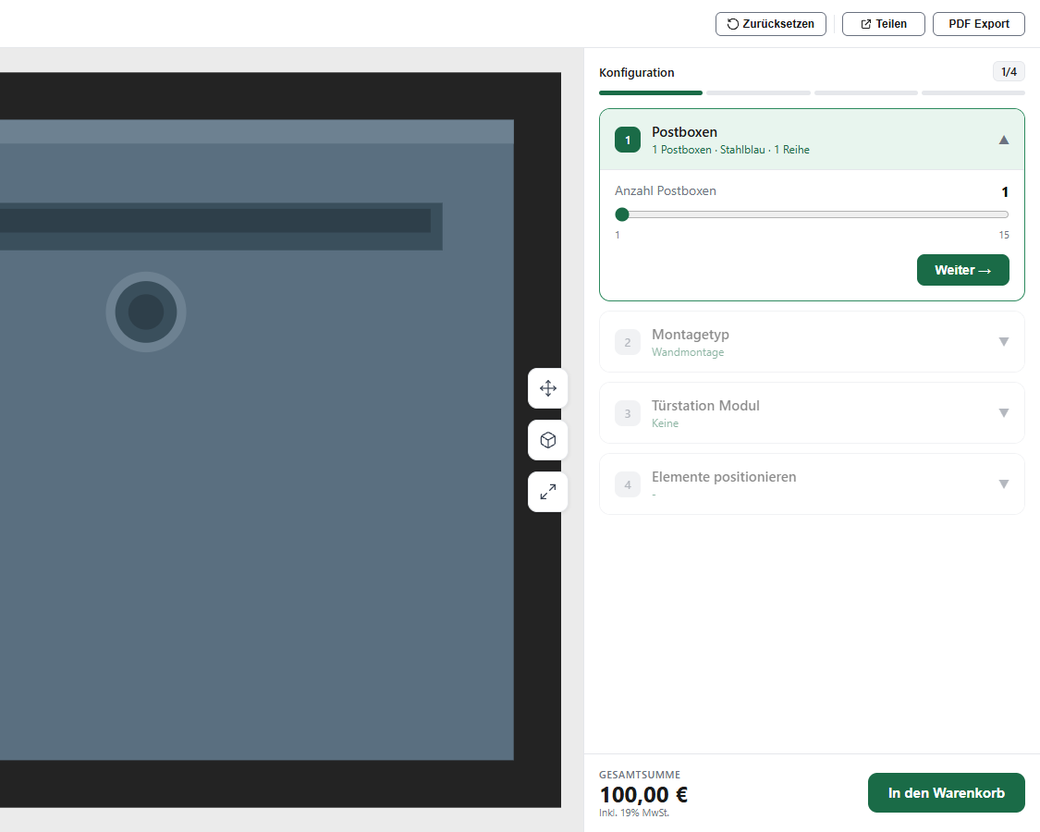
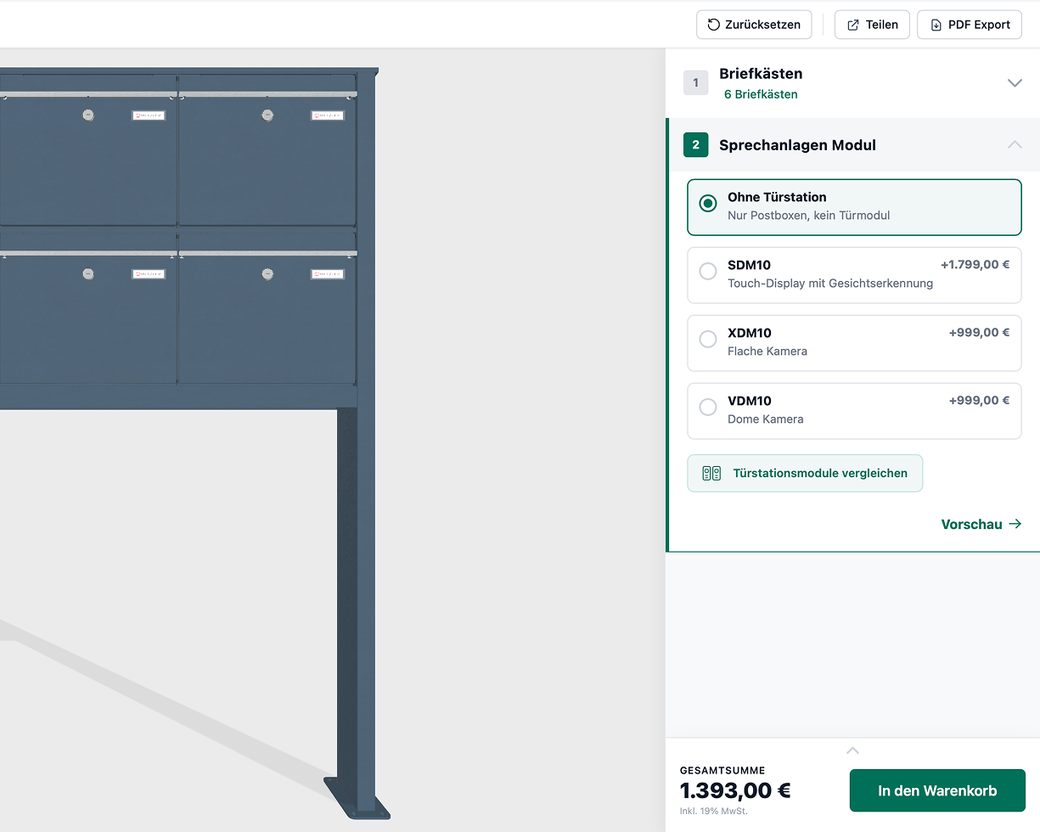
Add production-process case study, uniform screenshots, polish
- Add 6th case study (production process) with live link + real screenshot
- Re-render homepage/about-us/produktionsprozess at uniform 1440px width
- Swap konfigurator image (full panel, edge-to-edge)
- Fix About Us tag IA -> AI; About Us reframed around visitor groups
- Homepage & PLP case-study copy updates (FAQ, awards, advantages)
- en dashes throughout; nav/spacing/mobile refinements

diff --git a/index.html b/index.html
@@ -323,7 +323,7 @@
           <div class="case__tags">
             <span data-en="Content design" data-de="Content-Design">Content design</span>
             <span data-en="Trust" data-de="Vertrauen">Trust</span>
-            <span>IA</span>
+            <span>AI</span>
           </div>
           <h3 class="case__title"
               data-en="Turning a flat ‘About’ page into a trust-building hub"
@@ -443,6 +443,76 @@
               <li data-en="A configurator that turns a potentially overwhelming purchase into a guided, confident decision." data-de="Ein Konfigurator, der einen potenziell überfordernden Kauf in eine geführte, sichere Entscheidung verwandelt.">A configurator that turns a potentially overwhelming purchase into a guided, confident decision.</li>
               <li data-en="Customers keep an overview and a sense of control throughout the process." data-de="Kunden behalten durchgehend Überblick und Kontrolle über den Prozess.">Customers keep an overview and a sense of control throughout the process.</li>
               <li data-en="A validated, well-documented flow ready for development." data-de="Ein validierter, gut dokumentierter Flow, bereit für die Entwicklung.">A validated, well-documented flow ready for development.</li>
+            </ul>
+          </div>
+        </div>
+      </div></div>
+    </div>
+
+    <!-- ===== Case 6: Production process ===== -->
+    <div class="reveal case-wrap" style="transition-delay:.08s">
+      <article class="case case--feature tilt">
+        <div class="case__media">
+          <img src="assets/produktionsprozess.png" alt="Metzler production-process landing page" />
+        </div>
+        <div class="case__body">
+          <div class="case__tags">
+            <span data-en="Content design" data-de="Content-Design">Content design</span>
+            <span data-en="Storytelling" data-de="Storytelling">Storytelling</span>
+            <span data-en="Motion" data-de="Motion">Motion</span>
+          </div>
+          <h3 class="case__title"
+              data-en="Turning ‘how it’s made’ into a reason to buy"
+              data-de="Aus dem Herstellungsprozess ein Kaufargument machen">
+            Turning ‘how it’s made’ into a reason to buy
+          </h3>
+          <p class="case__client">Metzler GmbH</p>
+          <p class="case__summary"
+             data-en="A scrollytelling production-process landing page that serves two audiences at once – anxious buyers arriving from transactional emails and curious visitors from the About Us page – reframing a made-to-order wait as a mark of quality."
+             data-de="Eine Scrollytelling-Landingpage zum Produktionsprozess, die zwei Zielgruppen zugleich bedient – unsichere Käufer aus den Transaktions-E-Mails und neugierige Besucher von der Über-uns-Seite – und die Wartezeit einer Fertigung auf Bestellung als Qualitätsmerkmal umdeutet.">
+            A scrollytelling production-process landing page that serves two audiences at once – anxious buyers arriving from transactional emails and curious visitors from the About Us page – reframing a made-to-order wait as a mark of quality.
+          </p>
+          <ul class="case__chips">
+            <li data-en="Scrollytelling" data-de="Scrollytelling">Scrollytelling</li>
+            <li data-en="Journey timeline" data-de="Journey-Timeline">Journey timeline</li>
+            <li data-en="Error prevention" data-de="Fehlervermeidung">Error prevention</li>
+            <li data-en="Mass vs. custom" data-de="Masse vs. Individuell">Mass vs. custom</li>
+            <li>“Did you know?”</li>
+          </ul>
+          <div class="case__links">
+            <button class="btn btn--solid btn--sm case__toggle" type="button" aria-expanded="false">
+              <span class="lbl-closed" data-en="Read case study" data-de="Case Study lesen">Read case study</span>
+              <span class="lbl-open" data-en="Close" data-de="Schließen">Close</span>
+              <span class="chev" aria-hidden="true"><svg viewBox="0 0 12 8" width="11" height="8" fill="none"><path d="M1 1.5 6 6.5 11 1.5" stroke="currentColor" stroke-width="1.7" stroke-linecap="round" stroke-linejoin="round"/></svg></span>
+            </button>
+            <a class="btn btn--ghost btn--sm mag" href="https://sabavafa.github.io/metzler-produktionsprozess/" target="_blank" rel="noopener" data-en="View live ↗" data-de="Live ansehen ↗">View live ↗</a>
+          </div>
+        </div>
+      </article>
+      <div class="case__detail"><div class="case__detail-inner">
+        <div class="cd-grid">
+          <div class="cd-block">
+            <span class="cd-eyebrow" data-en="The challenge" data-de="Die Herausforderung">The challenge</span>
+            <p data-en="Two audiences land here with opposite needs: anxious buyers from transactional emails who want reassurance about their order, and curious visitors from the About Us page who want to understand the craft. And a made-to-order lead time reads as a delay unless it’s framed as care."
+               data-de="Zwei Zielgruppen mit gegensätzlichen Bedürfnissen landen hier: unsichere Käufer aus den Transaktions-E-Mails, die Sicherheit über ihre Bestellung suchen, und neugierige Besucher von der Über-uns-Seite, die das Handwerk verstehen wollen. Und eine Fertigung auf Bestellung wirkt wie eine Verzögerung – solange sie nicht als Sorgfalt erzählt wird.">Two audiences land here with opposite needs: anxious buyers from transactional emails who want reassurance about their order, and curious visitors from the About Us page who want to understand the craft. And a made-to-order lead time reads as a delay unless it’s framed as care.</p>
+          </div>
+          <div class="cd-block">
+            <span class="cd-eyebrow" data-en="What I did" data-de="Was ich getan habe">What I did</span>
+            <ul>
+              <li data-en="Designed one page for both audiences – reassurance for the anxious, depth for the curious." data-de="Eine Seite für beide Zielgruppen gestaltet – Beruhigung für die Unsicheren, Tiefe für die Neugierigen.">Designed one page for both audiences – reassurance for the anxious, depth for the curious.</li>
+              <li data-en="Visualised the journey as “Six steps to your door” (development → engraving → finishing → assembly → inspection → shipping) with scroll-driven storytelling and a workshop video." data-de="Die Reise als „Sechs Schritte bis vor Ihre Tür“ visualisiert (Entwicklung → Gravur → Veredelung → Endmontage → Kontrolle → Versand) – mit scrollbasiertem Storytelling und einem Werkstatt-Video.">Visualised the journey as “Six steps to your door” (development → engraving → finishing → assembly → inspection → shipping) with scroll-driven storytelling and a workshop video.</li>
+              <li data-en="Added a quality-assurance section on error prevention – double design verification, preview approval, final inspection – to answer “will my custom order be right?”" data-de="Einen Qualitätssicherungs-Abschnitt zur Fehlervermeidung ergänzt – doppelte Design-Prüfung, Freigabe der Vorschau, Endkontrolle – als Antwort auf „Wird meine individuelle Bestellung korrekt?“">Added a quality-assurance section on error prevention – double design verification, preview approval, final inspection – to answer “will my custom order be right?”</li>
+              <li data-en="Justified the premium with a Mass Production vs. Your Production comparison (made-to-order, laser-engraved, personalised, expert-reviewed, multiple checks)." data-de="Den Aufpreis mit einem Vergleich Massenproduktion vs. Ihre Produktion begründet (auf Bestellung gefertigt, lasergraviert, personalisiert, von Experten geprüft, mehrfache Kontrollen).">Justified the premium with a Mass Production vs. Your Production comparison (made-to-order, laser-engraved, personalised, expert-reviewed, multiple checks).</li>
+              <li data-en="Taught laser engraving through “Did you know?” callouts, written benefits-first – e.g. “exceptionally sharp, permanent engravings that won’t peel or fade,” not “industrial laser machine.”" data-de="Lasergravur über „Did you know?“-Callouts erklärt, nutzenorientiert getextet – z. B. „außergewöhnlich scharfe, dauerhafte Gravuren, die nicht abblättern oder verblassen“, statt „industrielle Lasermaschine“.">Taught laser engraving through “Did you know?” callouts, written benefits-first – e.g. “exceptionally sharp, permanent engravings that won’t peel or fade,” not “industrial laser machine.”</li>
+              <li data-en="Closed with quality-focused reviews and relevant FAQ + contact." data-de="Mit qualitätsbezogenen Bewertungen und relevanten FAQ + Kontakt abgeschlossen.">Closed with quality-focused reviews and relevant FAQ + contact.</li>
+            </ul>
+          </div>
+          <div class="cd-block">
+            <span class="cd-eyebrow" data-en="Outcome" data-de="Ergebnis">Outcome</span>
+            <ul>
+              <li data-en="A made-to-order wait reframed as a mark of quality – easing anxiety for buyers arriving from emails." data-de="Die Wartezeit einer Fertigung auf Bestellung als Qualitätsmerkmal umgedeutet – weniger Unsicherheit für Käufer aus den E-Mails.">A made-to-order wait reframed as a mark of quality – easing anxiety for buyers arriving from emails.</li>
+              <li data-en="A clear, benefits-first answer to “why Metzler over cheaper, mass-produced alternatives.”" data-de="Eine klare, nutzenorientierte Antwort auf „warum Metzler statt günstigerer Massenware“.">A clear, benefits-first answer to “why Metzler over cheaper, mass-produced alternatives.”</li>
+              <li data-en="One page that both reassures and educates – and feeds visitors onward into the shop." data-de="Eine Seite, die zugleich beruhigt und aufklärt – und Besucher weiter in den Shop führt.">One page that both reassures and educates – and feeds visitors onward into the shop.</li>
             </ul>
           </div>
         </div>

diff --git a/css/styles.css b/css/styles.css
@@ -235,6 +235,18 @@ body.loaded .hero__media { animation: heroIn .9s cubic-bezier(.2,.7,.2,1) .18s f
 .cfg__back { color:var(--muted); }
 .cfg__next { color:var(--ink); background:var(--grad); padding:8px 18px; border-radius:999px; font-weight:600; }
 
+/* production-process hero (real prototype photo + overlay) */
+.prod { position:relative; width:100%; height:100%; background-size:cover; background-position:center; display:flex; align-items:flex-end; }
+.prod__scrim { position:absolute; inset:0; background:linear-gradient(180deg, rgba(11,12,16,0.10) 0%, rgba(11,12,16,0.50) 52%, rgba(11,12,16,0.93) 100%); }
+.prod__content { position:relative; z-index:1; width:100%; padding:clamp(20px,3.2vw,30px); display:flex; flex-direction:column; gap:12px; }
+.prod__eyebrow { font-family:var(--font-display); font-size:11px; font-weight:500; letter-spacing:.2em; text-transform:uppercase; color:var(--silver); }
+.prod__h { font-family:var(--font-display); font-weight:600; font-size:clamp(20px,2.8vw,28px); line-height:1.1; color:#fff; }
+.prod__track { display:flex; align-items:center; margin-top:6px; }
+.prod__track .d { width:10px; height:10px; flex:0 0 auto; border-radius:50%; background:rgba(199,206,218,0.5); }
+.prod__track .d.on { background:var(--periwink); box-shadow:0 0 0 4px rgba(159,180,214,0.18); }
+.prod__track .ln { flex:1; height:1px; background:rgba(199,206,218,0.28); }
+.prod__cap { font-family:var(--font-display); font-size:11px; letter-spacing:.02em; color:var(--silver); }
+
 /* toggle button */
 .case__toggle { display:inline-flex; align-items:center; gap:8px; }
 .case__toggle .lbl-open { display:none; }